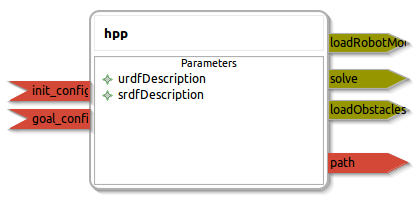
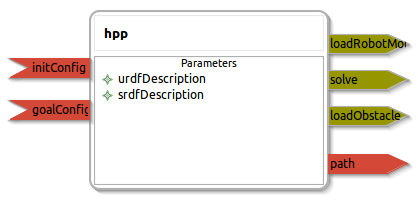
Rename package hpp -> hpp_node.

diff --git a/ros/src/hpp_ros.cpp b/ros/src/hpp_ros.cpp
@@ -1,7 +1,7 @@
 // ROS includes
 #include <ros/ros.h>
 #include <dynamic_reconfigure/server.h>
-#include <hpp/hppConfig.h>
+#include <hpp_node/hppConfig.h>
 
 // ROS message includes
 #include <sensor_msgs/JointState.h>
@@ -21,15 +21,15 @@ class hpp_ros
     ros::NodeHandle n_;
     ros::NodeHandle np_;
 
-    dynamic_reconfigure::Server<hpp::hppConfig> server;
-    dynamic_reconfigure::Server<hpp::hppConfig>::CallbackType f;
+    dynamic_reconfigure::Server<hpp_node::hppConfig> server;
+    dynamic_reconfigure::Server<hpp_node::hppConfig>::CallbackType f;
 
     ros::Publisher path_;
-    ros::Subscriber init_config_;
-    ros::Subscriber goal_config_;
+    ros::Subscriber initConfig_;
+    ros::Subscriber goalConfig_;
     ros::ServiceServer loadRobotModel_;
     ros::ServiceServer solve_;
-    ros::ServiceServer loadObstacles_;
+    ros::ServiceServer loadObstacle_;
 
     hpp_data component_data_;
     hpp_config component_config_;
@@ -46,13 +46,13 @@ class hpp_ros
         std::string solve_remap;
         n_.param("solve_remap", solve_remap, (std::string)"solve");
         solve_ = n_.advertiseService<std_srvs::Empty::Request , std_srvs::Empty::Response>(solve_remap, boost::bind(&hpp_impl::callback_solve, &component_implementation_,_1,_2,component_config_));
-        std::string loadObstacles_remap;
-        n_.param("loadObstacles_remap", loadObstacles_remap, (std::string)"loadObstacles");
-        loadObstacles_ = n_.advertiseService<std_srvs::Empty::Request , std_srvs::Empty::Response>(loadObstacles_remap, boost::bind(&hpp_impl::callback_loadObstacles, &component_implementation_,_1,_2,component_config_));
+        std::string loadObstacle_remap;
+        n_.param("loadObstacle_remap", loadObstacle_remap, (std::string)"loadObstacle");
+        loadObstacle_ = n_.advertiseService<std_srvs::Empty::Request , std_srvs::Empty::Response>(loadObstacle_remap, boost::bind(&hpp_impl::callback_loadObstacle, &component_implementation_,_1,_2,component_config_));
 
         path_ = n_.advertise<sensor_msgs::JointState>("path", 1);
-        init_config_ = n_.subscribe("init_config", 1, &hpp_ros::topicCallback_init_config, this);
-        goal_config_ = n_.subscribe("goal_config", 1, &hpp_ros::topicCallback_goal_config, this);
+        initConfig_ = n_.subscribe("initConfig", 1, &hpp_ros::topicCallback_initConfig, this);
+        goalConfig_ = n_.subscribe("goalConfig", 1, &hpp_ros::topicCallback_goalConfig, this);
 
         np_.param("urdfDescription", component_config_.urdfDescription, (std::string)"");
         np_.param("srdfDescription", component_config_.srdfDescription, (std::string)"");
@@ -60,16 +60,16 @@ class hpp_ros
 
 
     }
-    void topicCallback_init_config(const sensor_msgs::JointState::ConstPtr& msg)
+    void topicCallback_initConfig(const sensor_msgs::JointState::ConstPtr& msg)
     {
-        component_data_.in_init_config = *msg;
+        component_data_.in_initConfig = *msg;
     }
-    void topicCallback_goal_config(const sensor_msgs::JointState::ConstPtr& msg)
+    void topicCallback_goalConfig(const sensor_msgs::JointState::ConstPtr& msg)
     {
-        component_data_.in_goal_config = *msg;
+        component_data_.in_goalConfig = *msg;
     }
 
-    void configure_callback(hpp::hppConfig &config, uint32_t level)
+    void configure_callback(hpp_node::hppConfig &config, uint32_t level)
     {
         component_config_.urdfDescription = config.urdfDescription;
         component_config_.srdfDescription = config.srdfDescription;

diff --git a/common/src/hpp_common.cpp b/common/src/hpp_common.cpp
@@ -22,8 +22,8 @@ class hpp_data
 // autogenerated: don't touch this class
 public:
     //input data
-    sensor_msgs::JointState in_init_config;
-    sensor_msgs::JointState in_goal_config;
+    sensor_msgs::JointState in_initConfig;
+    sensor_msgs::JointState in_goalConfig;
     //output data
     sensor_msgs::JointState out_path;
     bool out_path_active;
@@ -65,10 +65,10 @@ public:
         /* protected region user implementation of service callback for solve end */
         return true;
     }
-    bool callback_loadObstacles(std_srvs::Empty::Request  &req, std_srvs::Empty::Response &res , hpp_config config)
+    bool callback_loadObstacle(std_srvs::Empty::Request  &req, std_srvs::Empty::Response &res , hpp_config config)
     {
-        /* protected region user implementation of service callback for loadObstacles on begin */
-        /* protected region user implementation of service callback for loadObstacles end */
+        /* protected region user implementation of service callback for loadObstacle on begin */
+        /* protected region user implementation of service callback for loadObstacle end */
         return true;
     }
 

diff --git a/README.md b/README.md
@@ -1,11 +1,11 @@
-hpp
+hpp_node
 ====================
 
 General description
 ---------------------
-The hpp package
+The hpp_node package
 
-<img src="./model/hpp.png" width="300px" />
+<img src="./model/hpp_node.png" width="300px" />
 
 Node: hpp
 ---------------------
@@ -26,13 +26,13 @@ Node: hpp
 
 
 #### Subscribed Topics
-**init_config** *(sensor_msgs::JointState)*   
-<!--- protected region init_config on begin -->
-<!--- protected region init_config end -->
+**initConfig** *(sensor_msgs::JointState)*   
+<!--- protected region initConfig on begin -->
+<!--- protected region initConfig end -->
 
-**goal_config** *(sensor_msgs::JointState)*   
-<!--- protected region goal_config on begin -->
-<!--- protected region goal_config end -->
+**goalConfig** *(sensor_msgs::JointState)*   
+<!--- protected region goalConfig on begin -->
+<!--- protected region goalConfig end -->
 
 
 
